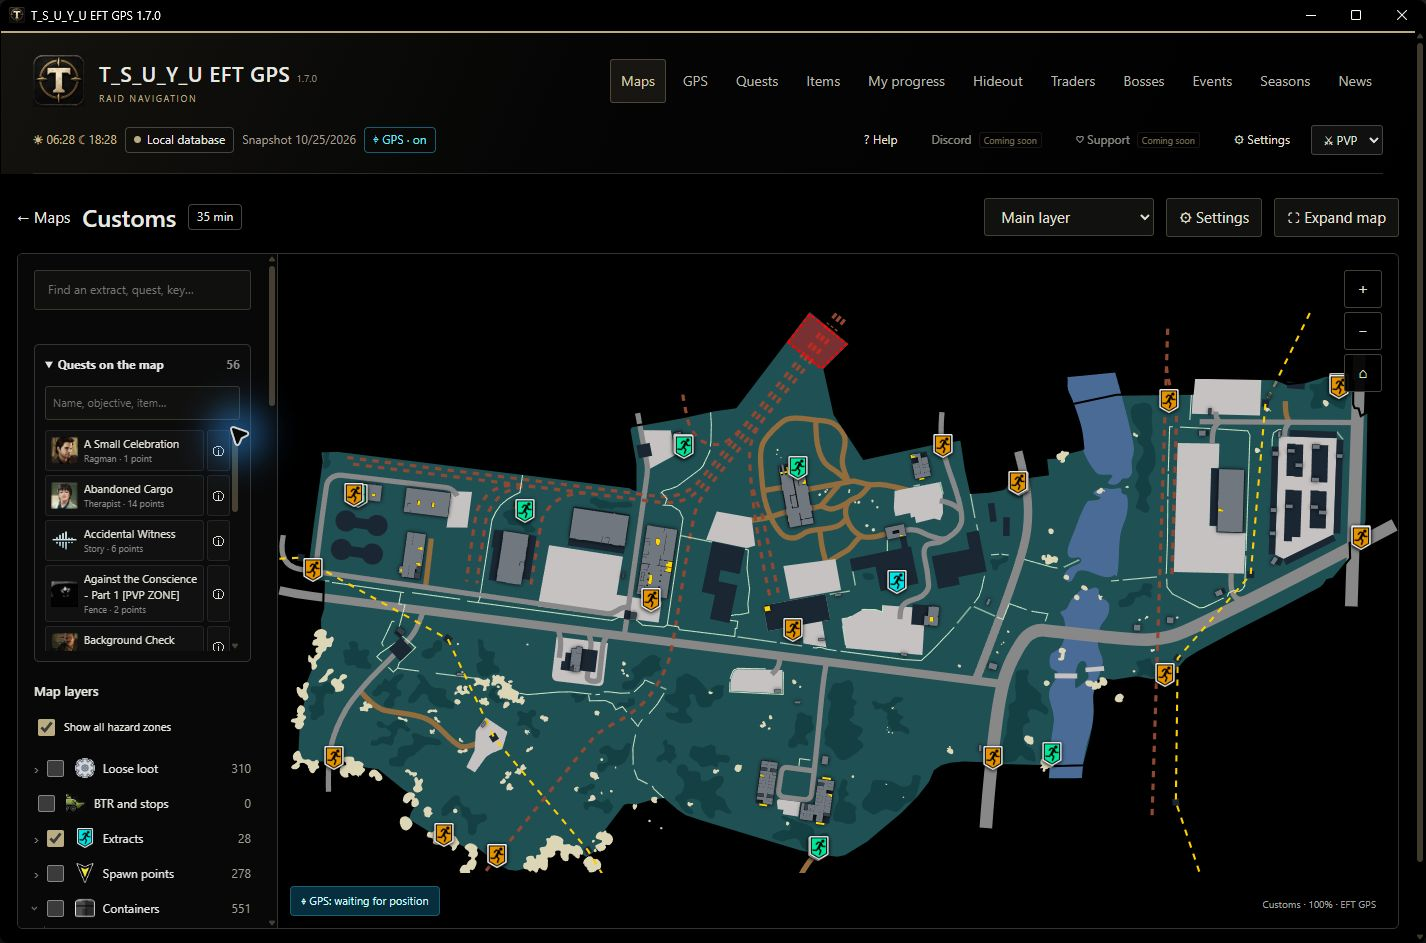
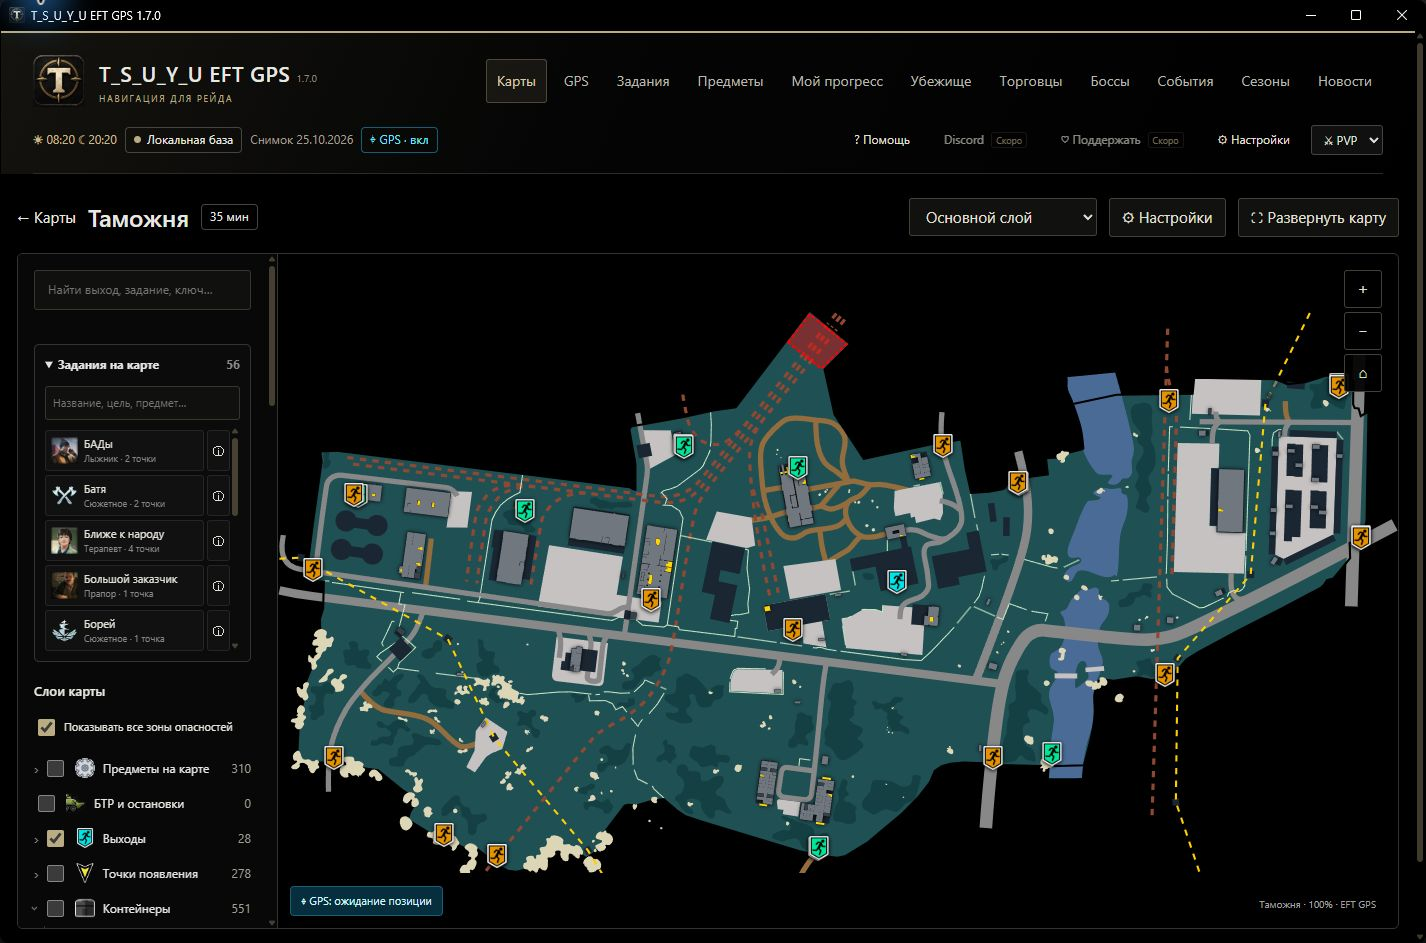
Simplify installation and replace screenshots with cursor-free captures

diff --git a/README.md b/README.md
@@ -2,9 +2,19 @@
 
 **Offline maps, screenshot GPS and raid preparation for Escape from Tarkov.**
 
-[Download the latest release](https://github.com/TsuyuDX/eft-gps/releases/latest) · [All versions](https://github.com/TsuyuDX/eft-gps/releases) · [Report a bug / suggest an idea](https://github.com/TsuyuDX/eft-gps/issues)
+[![Скачать для Windows / Download for Windows](download.svg)](https://github.com/TsuyuDX/eft-gps/releases/latest/download/EFT-GPS-Setup.exe)
+
+[All versions](https://github.com/TsuyuDX/eft-gps/releases) · [Report a bug / suggest an idea](https://github.com/TsuyuDX/eft-gps/issues)
 
 Created by **T_S_U_Y_U** · Windows 10/11 x64 · Русский / English · Current version **1.7.0**
+
+**Установка в три шага:**
+
+1. Нажмите **«Скачать / Download»** — получите один файл `EFT-GPS-Setup.exe`.
+2. Откройте его и нажмите **«Скачать и установить»**. Загрузчик сам подготовит нужный пакет.
+3. Выберите папку в открывшемся установщике и нажмите **«Установить»**.
+
+Для первого скачивания нужен интернет. После установки карты, справочник и GPS работают офлайн. При обновлении выберите текущую папку приложения, чтобы сохранить прогресс.
 
 ![Application overview](screenshots/overview.png)
 
@@ -24,13 +34,26 @@ Created by **T_S_U_Y_U** · Windows 10/11 x64 · Русский / English · Cur
 
 ## Download and install
 
-Open **[Releases](https://github.com/TsuyuDX/eft-gps/releases/latest)** and download **both `.part` files**, **`setup-parts.json`** and **`Join-Setup.cmd`** into the same folder. Run `Join-Setup.cmd`; it verifies the downloaded parts and recreates the original installer EXE. Run the resulting EXE and choose your installation folder. `SHA256SUMS.txt` is available for manual verification.
+1. **[Download EFT-GPS-Setup.exe](https://github.com/TsuyuDX/eft-gps/releases/latest/download/EFT-GPS-Setup.exe).** This is the only file you need.
+2. Run it and click **Download and install**. It downloads the correct package, verifies it and opens setup automatically.
+3. Choose your app folder and click **Install**. For updates, select the existing folder to preserve your progress.
 
-To update, select your existing app folder. Progress, notes, map markers and GPS preferences are preserved. An optional desktop shortcut launches the app in its own window.
+The small downloader requires internet to retrieve the full offline package (about 2.38 GB for 1.7.0). Once installed, the app works offline. The installer language defaults to Windows; RU and EN buttons let you change it.
 
-The download is split because the full offline package exceeds GitHub's per-file limit. The automatically generated **Source code ZIP/TAR** contains this release page and documentation; it is not the application installer.
+![Simple download and setup](screenshots/setup.png)
 
-Requires **Windows 10 version 1903 or newer / Windows 11, x64**. The installer checks the required system components. The full package includes the rendering runtime for offline installation if missing. No separate drivers are required.
+Requires **Windows 10 version 1903 or newer / Windows 11, x64**. The full package includes the rendering runtime if needed. No separate drivers are required.
+
+<details>
+<summary>Manual offline package · Ручная загрузка полного пакета</summary>
+
+Advanced users can download both `.part` files, `setup-parts.json` and `Join-Setup.cmd` from the chosen release into one folder. Run `Join-Setup.cmd`, then the reconstructed setup EXE. Every part and the final file are checked with SHA-256. `SHA256SUMS.txt` is available for manual verification.
+
+Для ручной загрузки скачайте обе части `.part`, `setup-parts.json` и `Join-Setup.cmd` в одну папку. Запустите `Join-Setup.cmd`, затем полученный EXE. Для обычной установки достаточно кнопки скачивания выше.
+
+The automatically generated Source code archives contain repository documentation. Install using `EFT-GPS-Setup.exe` or the complete offline package.
+
+</details>
 
 ## GPS: how it works
 
@@ -78,7 +101,7 @@ Older installers are preserved as originally built. Their names and capabilities
 
 **T_S_U_Y_U EFT GPS** — карты, GPS по игровым скриншотам, задания и подготовка к рейду в отдельном приложении для Windows. Сохранённые данные работают без интернета.
 
-Скачайте обе части `.part`, `setup-parts.json` и `Join-Setup.cmd` из последнего выпуска в одну папку. Запустите `Join-Setup.cmd`, затем полученный EXE. При обновлении выберите папку уже установленной программы. Автоматический архив Source code содержит документацию, а не приложение.
+Нажмите кнопку скачивания в начале страницы и запустите **EFT-GPS-Setup.exe**. Нажмите **«Скачать и установить»**: нужные файлы будут загружены и проверены автоматически. Затем выберите папку и подтвердите установку. При обновлении укажите текущую папку программы.
 
 Язык программы выбирается при первом запуске и меняется в настройках. Установщик берёт язык системы. В «Помощи» доступны обзор, FAQ и список изменений. Discord и поддержка проекта **скоро будут доступны**.
 

diff --git a/GUIDE.ru.md b/GUIDE.ru.md
@@ -4,9 +4,9 @@
 
 ## Установка
 
-Запустите **TSUYU-EFTGPS-1.7.0-Setup.exe**, выберите папку и подтвердите установку. При обновлении укажите папку уже установленного приложения: выполненные задания, метки, заметки и настройки сохранятся. По желанию установщик создаст ярлык **T_S_U_Y_U EFT GPS**.
+Скачайте **[EFT-GPS-Setup.exe](https://github.com/TsuyuDX/eft-gps/releases/latest/download/EFT-GPS-Setup.exe)** и откройте его. Нажмите **«Скачать и установить»**. Загрузчик сам скачает и проверит нужный пакет, после чего откроется установщик. Выберите папку и подтвердите установку. При обновлении укажите папку текущего приложения: прогресс, метки, заметки и настройки GPS сохранятся.
 
-Для переносной версии распакуйте **TSUYU-EFTGPS-1.7.0-Windows.zip** и запустите **EFT GPS.exe**. Не запускайте приложение прямо из архива.
+Для первого скачивания нужен интернет. После установки приложение работает офлайн. Ручная загрузка полного пакета описана в README репозитория.
 
 Нужна Windows 10 версии 1903 или новее либо Windows 11, x64. Установщик проверяет системные компоненты и свободное место. Необходимый компонент отображения входит в полный пакет и при отсутствии устанавливается без интернета. Отдельные драйверы не требуются.
 

diff --git a/GUIDE.en.md b/GUIDE.en.md
@@ -4,9 +4,9 @@ Offline maps, screenshot GPS and raid preparation for Escape from Tarkov on Wind
 
 ## Install
 
-Run **TSUYU-EFTGPS-1.7.0-Setup.exe**, choose a folder and confirm installation. To update, select your existing app folder. Quest progress, markers, notes and GPS preferences are preserved. The optional desktop shortcut is **T_S_U_Y_U EFT GPS**.
+Download **[EFT-GPS-Setup.exe](https://github.com/TsuyuDX/eft-gps/releases/latest/download/EFT-GPS-Setup.exe)** and run it. Click **Download and install**. The helper downloads and verifies the full package, then opens setup automatically. Choose a folder and confirm installation. To update, select your existing app folder: progress, markers, notes and GPS settings are preserved.
 
-For the portable version, extract **TSUYU-EFTGPS-1.7.0-Windows.zip** and run **EFT GPS.exe**. Do not run it inside an archive.
+Internet is required for the initial download. The installed app works offline. Advanced manual downloads are described in the repository README.
 
 Requires Windows 10 version 1903 or later, or Windows 11, x64. The installer checks system components and free space. The full package includes the rendering runtime for offline setup if it is missing. No separate drivers are needed.
 
